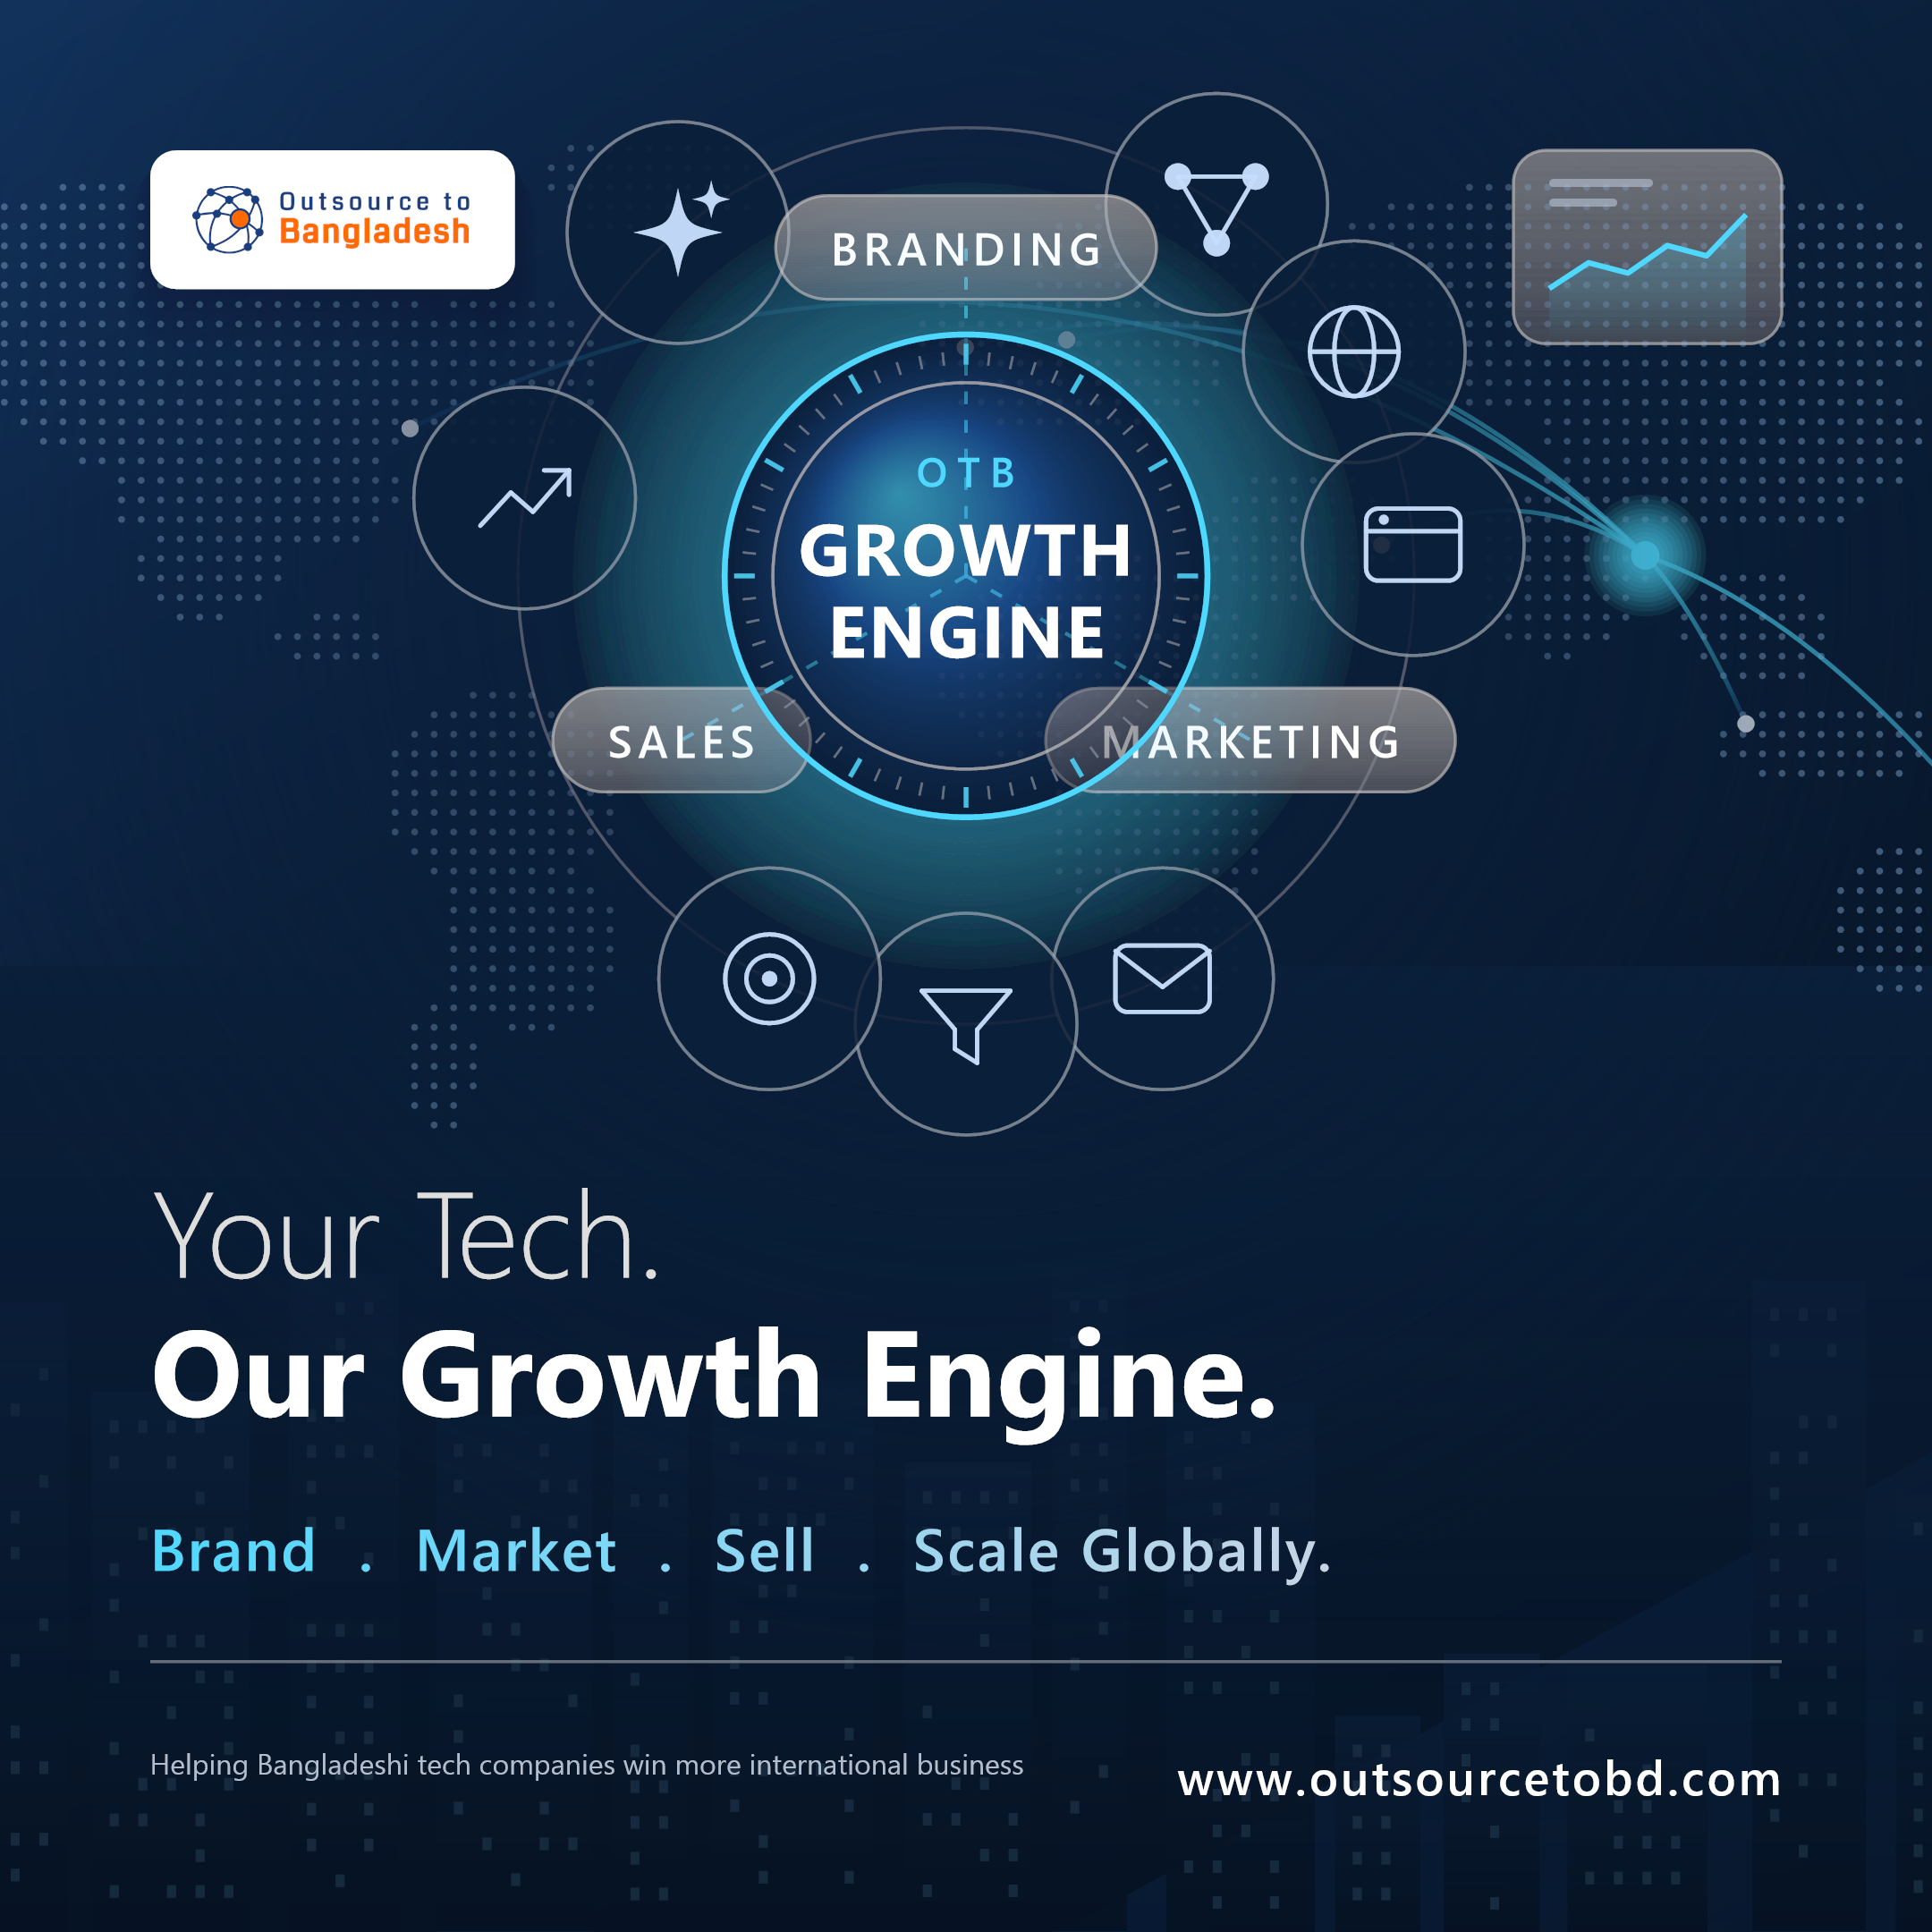
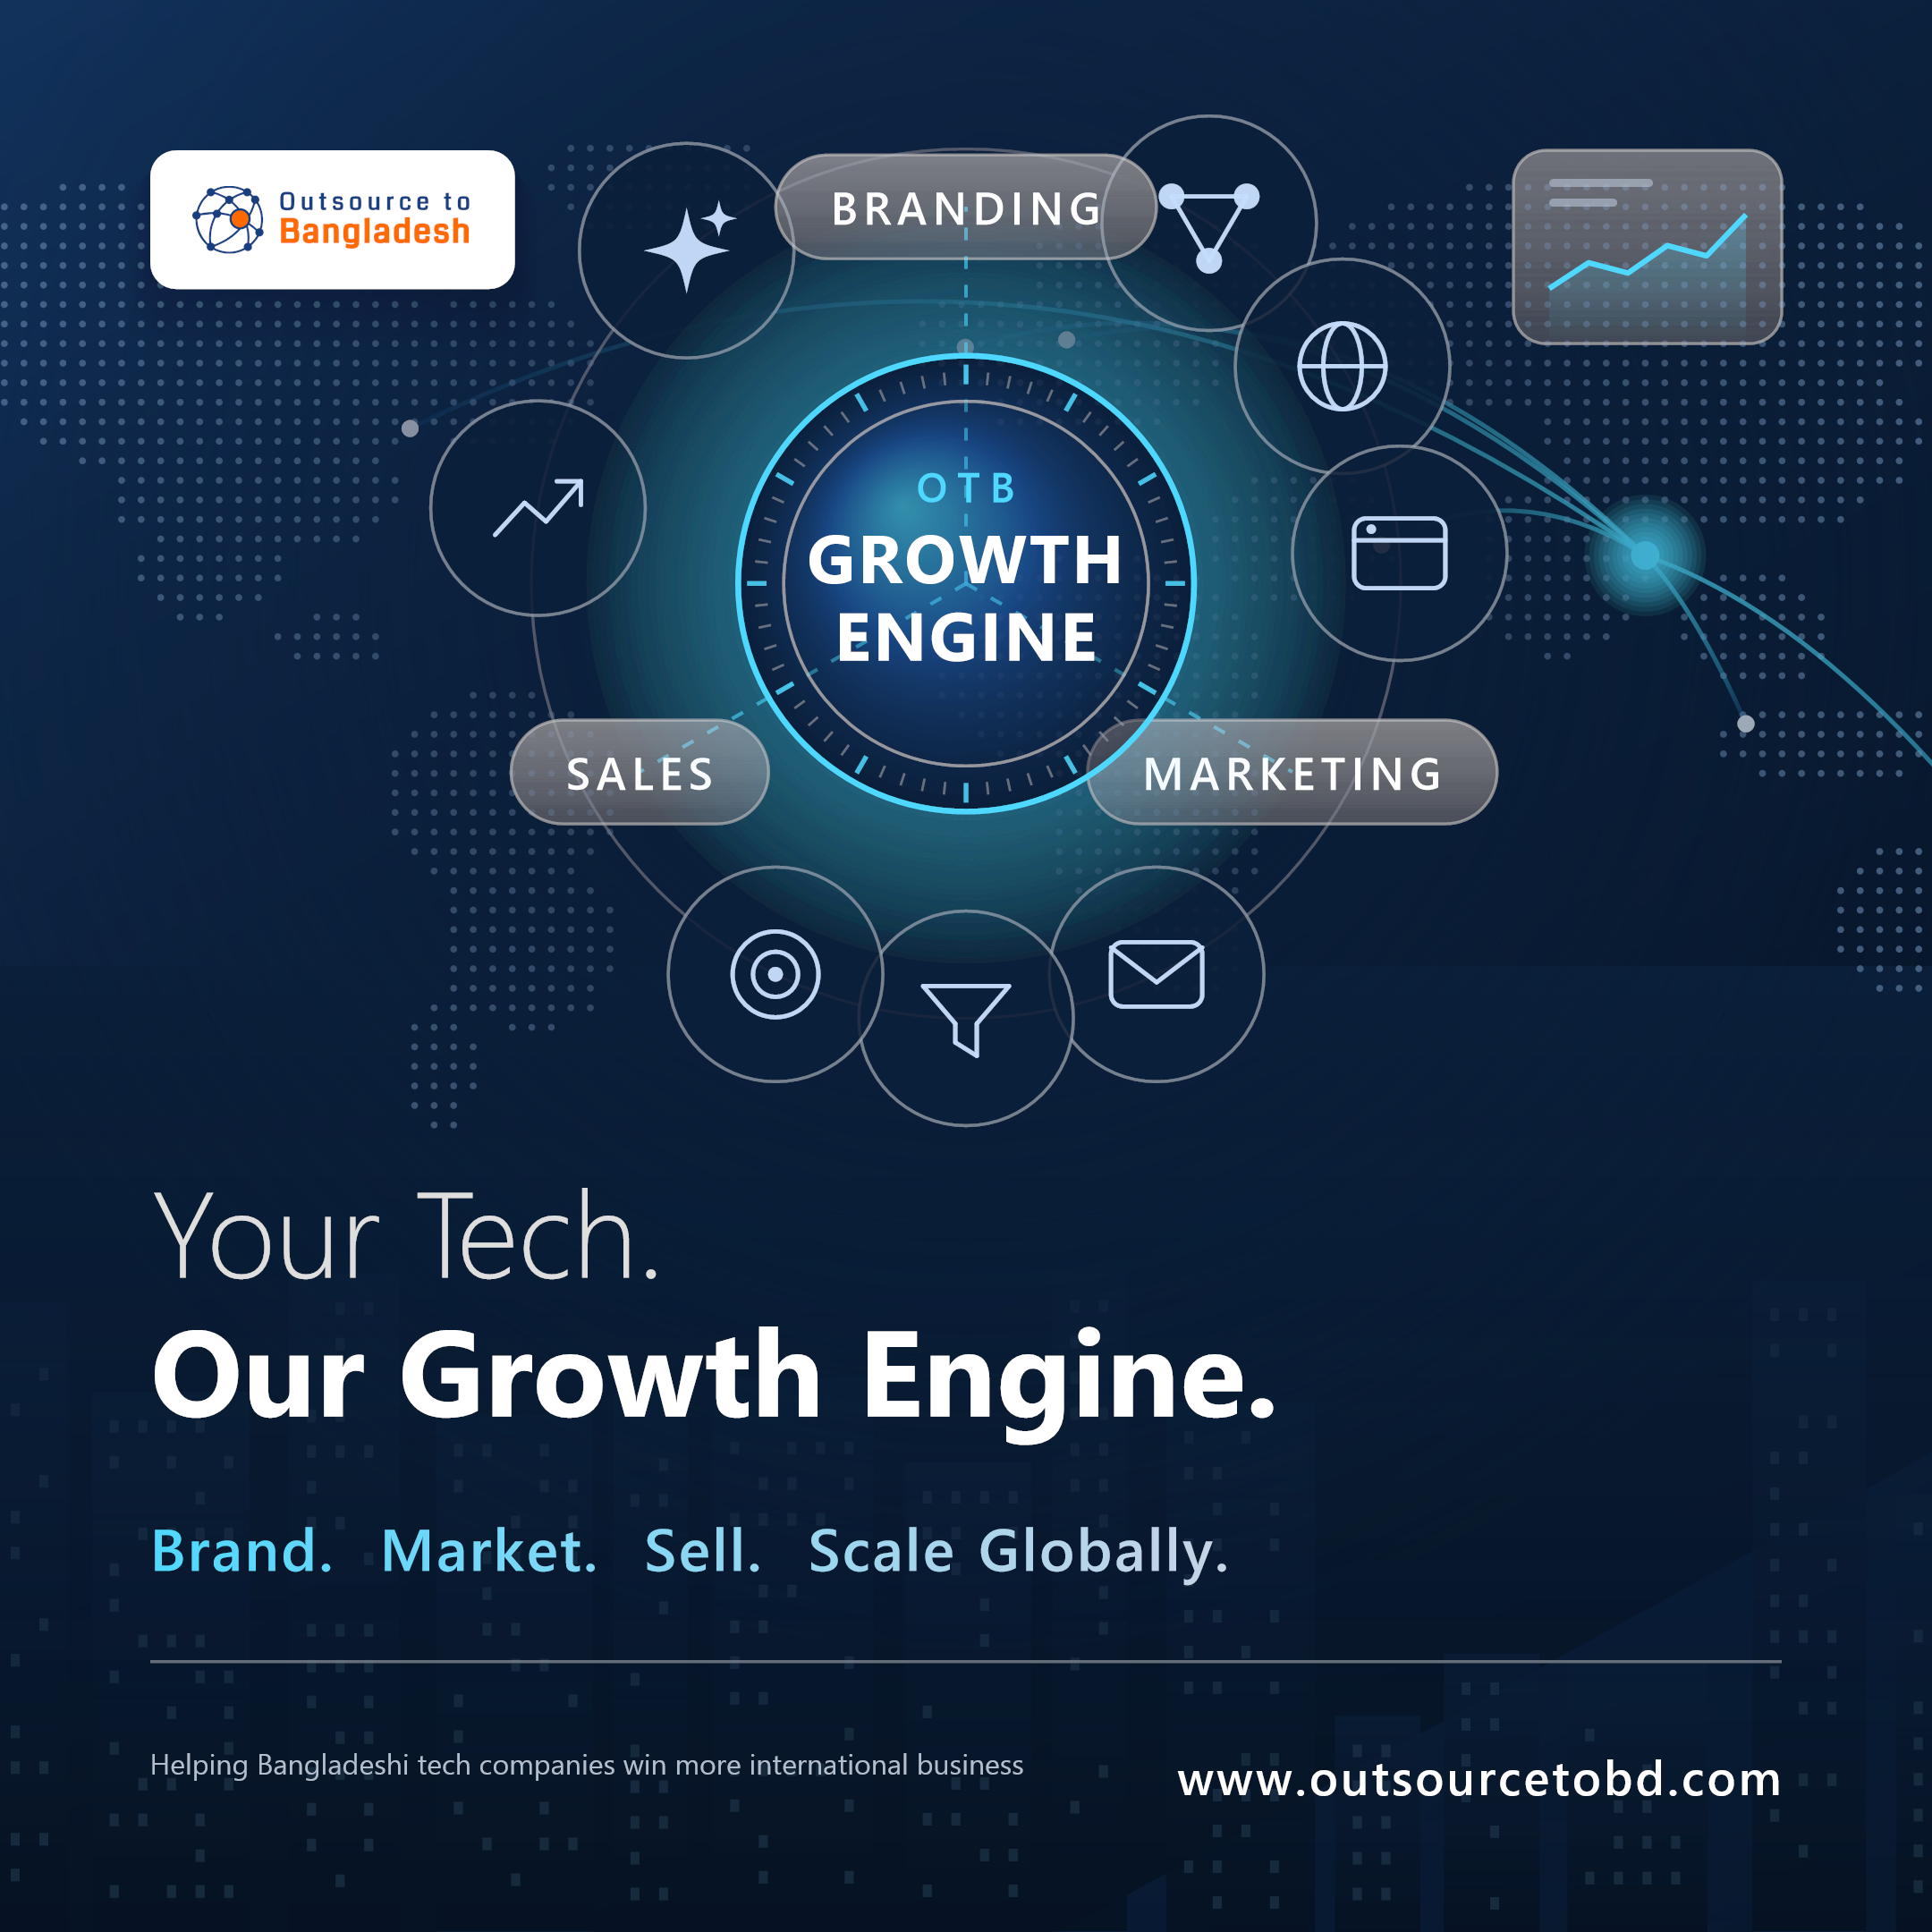
jhghj

diff --git a/assets/styles.css b/assets/styles.css
@@ -383,6 +383,13 @@ body::after { content:""; position:fixed; inset:0; z-index:-1; pointer-events:no
    Dropping to an opaque background removes the readback and costs nothing
    visually: --menu-bg was already 92% opaque. */
 @media (hover:none) and (pointer:coarse) {
+  /* Width is keyed on TOUCH, not on a pixel breakpoint, so it can never disagree
+     with the icon-only rule below. Previously a 561-900px touch device (foldable,
+     tablet, phone in landscape) took --dock-w:560px from the width query while
+     this block stripped its labels: a 560px bar holding four 20px icons.
+     One compact pill on every touch device instead. */
+  :root { --dock-w:344px; --dock-clear:128px; }
+  .dock-item svg { width:22px; height:22px; }
   .dock, .dock-menu {
     background:var(--menu-solid);
     -webkit-backdrop-filter:none; backdrop-filter:none;